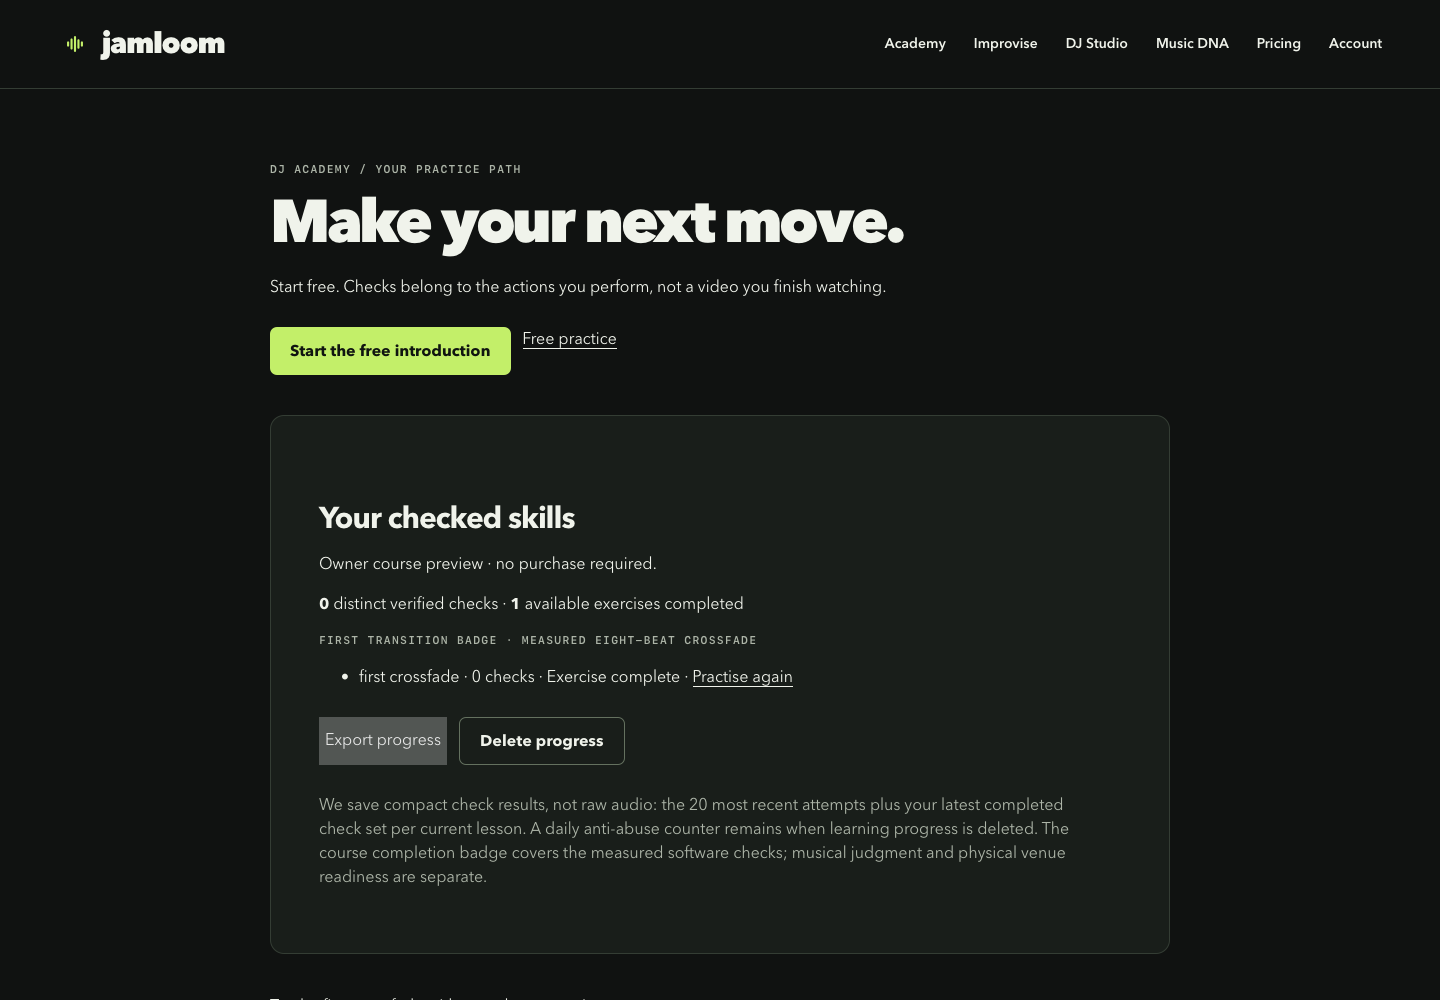
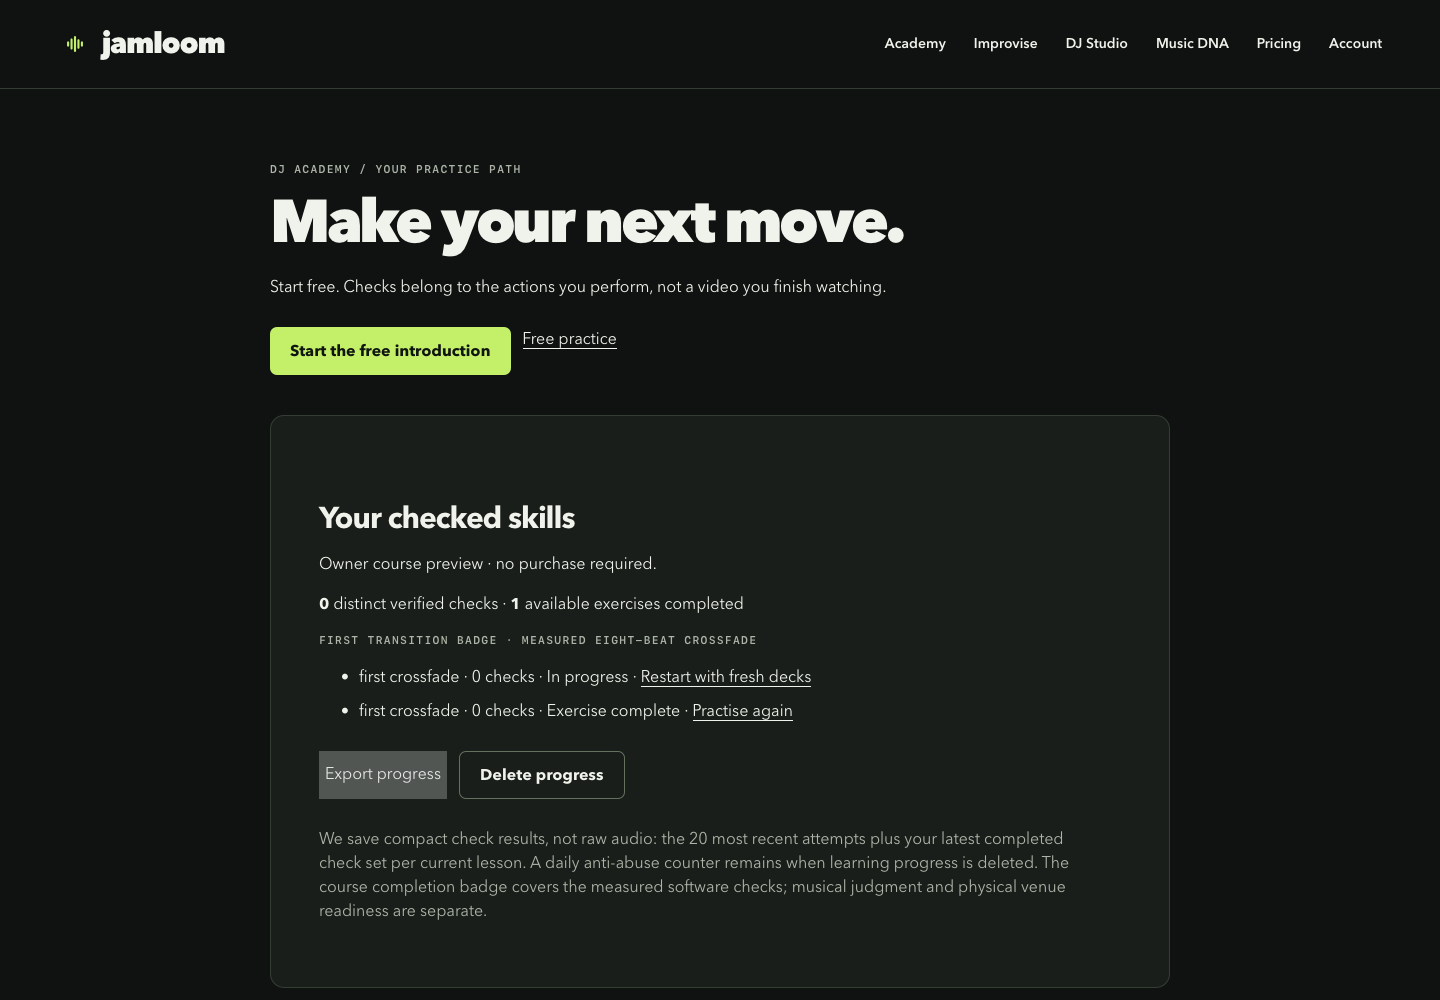
fix(academy): start assessment sampling after account attempt creation

Changed region(s): [[0.2188, 0.713, 0.75, 0.93], [0.375, 0.651, 0.5625, 0.713]]

diff --git a/apps/web/academy-coach.js b/apps/web/academy-coach.js
@@ -49,7 +49,7 @@ export async function attachAcademy({bridge,load,assets}){
    const source=event.sample??event;const s=Object.fromEntries(Object.entries(source).filter(([k])=>k!=='action').map(([k,v])=>[k,typeof v==='number'?Number(v.toFixed(4)):v]));run.observe(s);
   }else if(event.control)run.action({t:event.t,source:event.source,control:event.control,value:event.value,beforeA:event.beforeA,beforeB:event.beforeB,afterA:event.afterA,afterB:event.afterB});
  });
- $('load').onclick=async()=>{panel.setAttribute('aria-busy','true');$('load').disabled=true;try{run.state='preparing';feedback='Loading Extended into A and Theories of Everything into B…';paint();await load(tracks);ready=true;run.state='available';run.begin();if(practice){run.pause();feedback='Unrestricted practice. Resume coaching only when you want a task.';}else{await startAttempt();feedback=lesson.tasks[0].kind==='knowledge'?'Choose your answer below. The decks remain available for practice.':lesson.tasks[0].kind==='recording'?'Start both tracks as needed, enable Track loop, then record your set.':'Tracks ready. Press the actual Play A button below.';}}catch(e){run.state='available';feedback=e.message;}finally{panel.removeAttribute('aria-busy');$('load').disabled=false;paint();}};
+ $('load').onclick=async()=>{panel.setAttribute('aria-busy','true');$('load').disabled=true;try{run.state='preparing';feedback='Loading Extended into A and Theories of Everything into B…';paint();await load(tracks);ready=true;run.state='available';if(practice){run.begin();run.pause();feedback='Unrestricted practice. Resume coaching only when you want a task.';}else{await startAttempt();run.begin();feedback=lesson.tasks[0].kind==='knowledge'?'Choose your answer below. The decks remain available for practice.':lesson.tasks[0].kind==='recording'?'Start both tracks as needed, enable Track loop, then record your set.':'Tracks ready. Press the actual Play A button below.';}}catch(e){run.state='available';feedback=e.message;}finally{panel.removeAttribute('aria-busy');$('load').disabled=false;paint();}};
  $('focus').onclick=()=>{const el=document.getElementById(lesson.tasks[run.index].control);el?.scrollIntoView({block:'center',behavior:'instant'});el?.focus();};
  $('plan-download').onclick=()=>{const url=URL.createObjectURL(new Blob([$('plan').value],{type:'text/plain'})),a=document.createElement('a');a.href=url;a.download='jamloom-set-plan.txt';a.click();setTimeout(()=>URL.revokeObjectURL(url),1000);};
  $('answer').onchange=()=>{if($('answer').value!=='')run.action({t:bridge.snapshot().t,control:'academy-answer',source:'user',value:Number($('answer').value)});};

diff --git a/TODO.md b/TODO.md
@@ -75,6 +75,11 @@ hosted read-only audit authenticates both to Aurowall. Live tax settings lack a
 head-office address; owner will complete them. Shared-account refund handling now
 ignores unrelated non-Checkout charges; 22 Academy/admin tests PASS. Permanent
 catalog/webhook preparation is underway, with sales still closed.
+Both catalogs and separate signing secrets are now configured; webhooks remain
+disabled until the configured deployment is verified. A delayed account request
+exposed premature assessment sampling; coaching now begins after attempt creation.
+The failing delayed-network reproduction now passes in Chromium/WebKit. Human
+checks remain explicitly deferred, not passed.
 
 Silent endurance exposed a wall-clock/frame-clock mismatch: Chromium's manually
 stopped five-minute run contained only 298.28 seconds. The harness now waits for

diff --git a/docs/progress.md b/docs/progress.md
@@ -7,6 +7,10 @@ and owner will complete it. Shared-account unrelated reversals are now safely
 ignored; 22 Academy/admin tests PASS. Catalog/endpoints are being prepared while
 sales remain closed. The superseded endurance run was stopped after its captured
 short-duration failure; completed evidence is retained and the corrected run continues.
+Separate test/live catalogs and webhook secrets are configured; endpoint activation
+awaits the configured deployment. Delaying account-attempt creation reproduced an
+assessment timing conflict; sampling now starts after the request finishes, and
+both browsers pass the delayed-network regression with muted output.
 
 Owner preview access is implemented with the existing verified active administrator
 check; prerequisites and financial receipts stay separate. 21 Academy/admin tests
